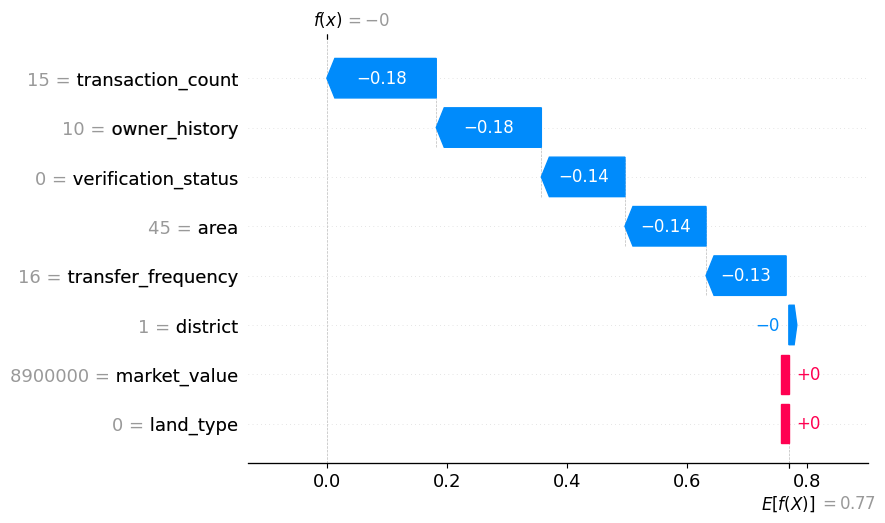
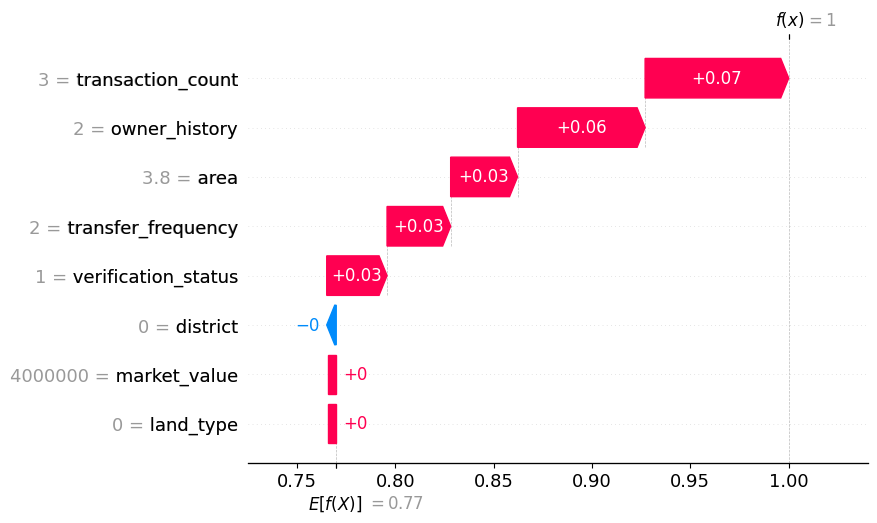
Final Review 2 Project final update 2

diff --git a/templates/search.html b/templates/search.html
@@ -6,8 +6,10 @@
 
     <meta charset="UTF-8">
 
-    <meta name="viewport"
-          content="width=device-width, initial-scale=1.0">
+    <meta
+        name="viewport"
+        content="width=device-width, initial-scale=1.0"
+    >
 
     <title>
         Search Land
@@ -31,11 +33,15 @@
 
 <div class="container mt-5 mb-5">
 
-    <div class="card p-5 shadow-lg"
-         style="border-radius:25px;">
+    <div
+        class="card p-5 shadow-lg"
+        style="border-radius:25px;"
+    >
 
-        <h1 class="text-center mb-4"
-            style="color:#1e3a8a;">
+        <h1
+            class="text-center mb-4"
+            style="color:#1e3a8a;"
+        >
 
             Land Verification Portal
 
@@ -86,12 +92,16 @@
 
         {% if record %}
 
-        <div class="card mt-5 border-0 shadow-sm"
-             style="border-radius:20px;">
+        <div
+            class="card mt-5 border-0 shadow-sm"
+            style="border-radius:20px;"
+        >
 
             <div class="card-body p-5">
 
-                <div class="d-flex justify-content-between align-items-center">
+                <div
+                    class="d-flex justify-content-between align-items-center"
+                >
 
                     <h3 style="color:#1e3a8a;">
 
@@ -151,7 +161,15 @@
 
                             <strong>Aadhaar Number:</strong>
 
-                            XXXX-XXXX-{{ record[6][-4:] }}
+                            {% if record[6] %}
+
+                                XXXX-XXXX-{{ record[6][-4:] }}
+
+                            {% else %}
+
+                                Not Available
+
+                            {% endif %}
 
                         </p>
 
@@ -223,7 +241,9 @@
 
                             {% else %}
 
-                                <span class="badge bg-warning text-dark">
+                                <span
+                                    class="badge bg-warning text-dark"
+                                >
 
                                     Pending
 
@@ -259,15 +279,19 @@
 
         </div>
 
-        {% endif %}
+        {% elif error %}
 
-        <!-- ERROR -->
+        <!-- ERROR MESSAGE -->
 
-        {% if error %}
+        <div
+            class="alert alert-danger mt-5 text-center"
+        >
 
-        <div class="alert alert-danger mt-4 text-center">
+            <h5>
 
-            {{ error }}
+                {{ error }}
+
+            </h5>
 
         </div>
 